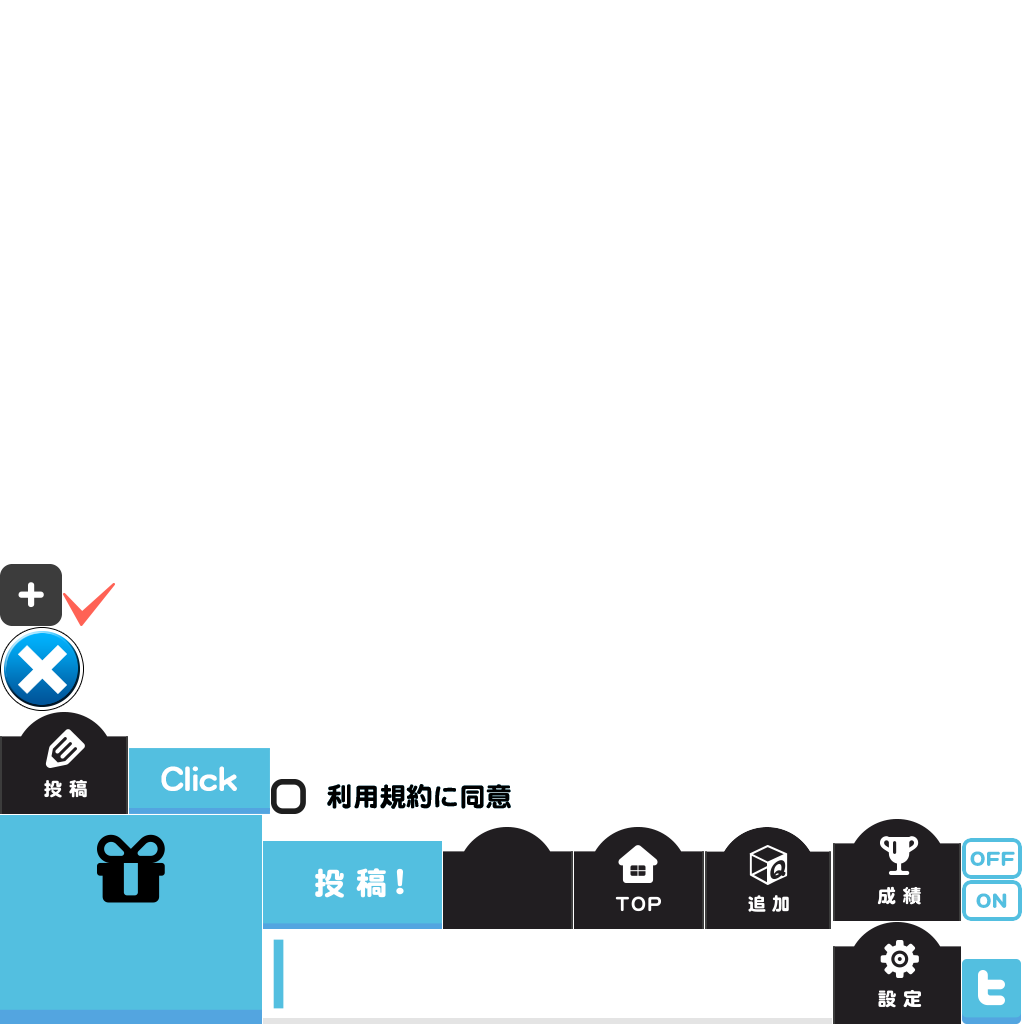
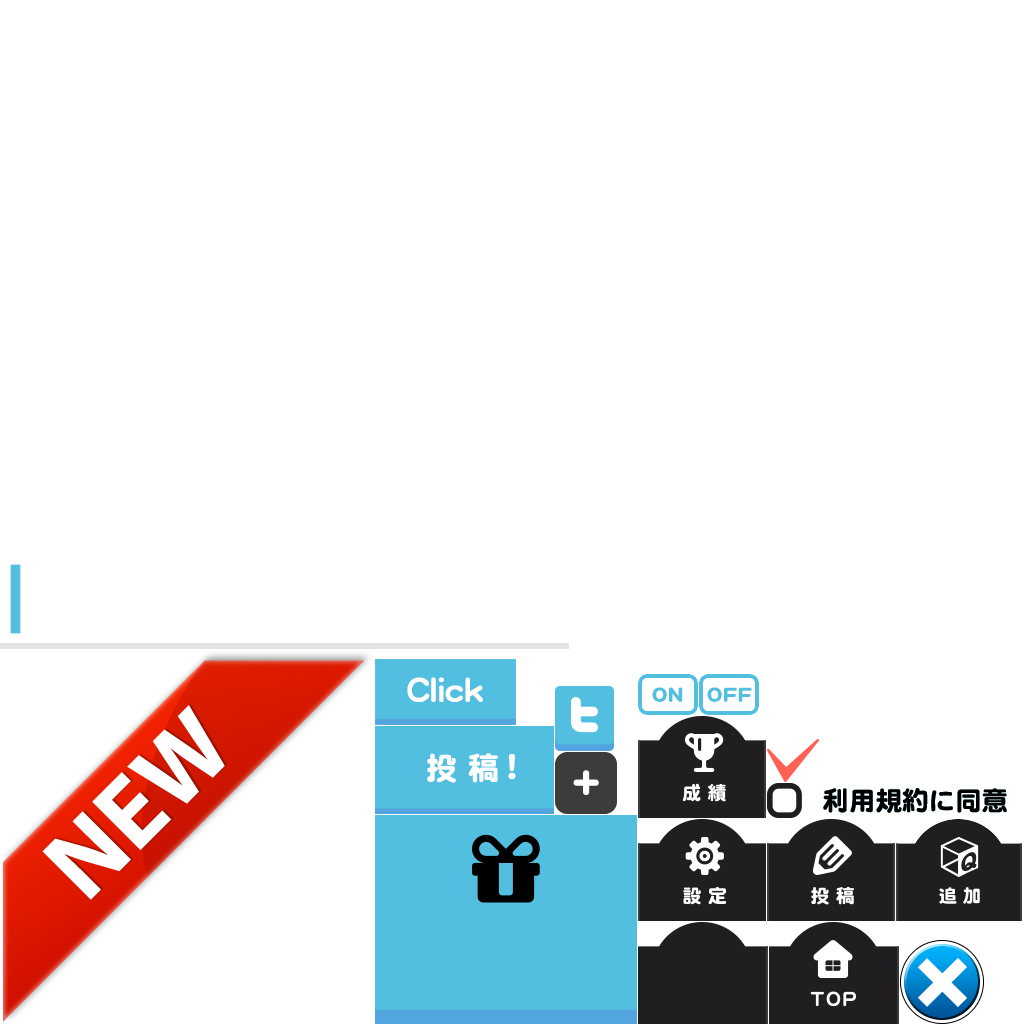
C#ライブラリを修正開始

Changed region(s): [[0.0, 0.5312, 1.0, 1.0]]

diff --git a/Assets/QuizBox/Scripts/Top/TopController.cs b/Assets/QuizBox/Scripts/Top/TopController.cs
@@ -17,11 +17,13 @@ public class TopController : MonoBehaviour {
 	public GameObject[] dialogArray;
 	public UISprite[] buttonFilterArray;
 	private static TopController sInstance;
-	private GameObject mCurrentDialog;
+	private GameObject mCurrentDialogObject;
+	private Dialog mCurrentDialog;
 
 	void Start () {
 		sInstance = this;
 		ShowDialog (Dialog.QuizTopic);
+		mCurrentDialog = Dialog.QuizTopic;
 		SetActiveButtonFilter (Dialog.QuizTopic);
 		UpdateUserPointLabel ();
 		ImobileManager.Instance.ShowBannerAd ();
@@ -40,9 +42,13 @@ public class TopController : MonoBehaviour {
 	}
 
 	public void OnTopClicked () {
-		mCurrentDialog.SetActive (false);
+		if(mCurrentDialog == Dialog.QuizTopic){
+			return;
+		}
+		mCurrentDialogObject.SetActive (false);
 		SetActiveButtonFilter (Dialog.QuizTopic);
 		ShowDialog (Dialog.QuizTopic);
+		mCurrentDialog = Dialog.QuizTopic;
 	}
 
 	public void OnAddPointClicked () {
@@ -54,21 +60,33 @@ public class TopController : MonoBehaviour {
 	}
 
 	public void OnResultClicked () {
-		mCurrentDialog.SetActive (false);
+		if(mCurrentDialog == Dialog.History){
+			return;
+		}
+		mCurrentDialogObject.SetActive (false);
 		SetActiveButtonFilter (Dialog.History);
 		ShowDialog (Dialog.History);
+		mCurrentDialog = Dialog.History;
 	}
 
 	public void OnSettingClicked () {
-		mCurrentDialog.SetActive (false);
+		if(mCurrentDialog == Dialog.Setting){
+			return;
+		}
+		mCurrentDialogObject.SetActive (false);
 		SetActiveButtonFilter (Dialog.Setting);
 		ShowDialog (Dialog.Setting);
+		mCurrentDialog = Dialog.Setting;
 	}
 
 	public void OnAddQuizClicked () {
-		mCurrentDialog.SetActive (false);
+		if(mCurrentDialog == Dialog.AddQuiz){
+			return;
+		}
+		mCurrentDialogObject.SetActive (false);
 		SetActiveButtonFilter (Dialog.AddQuiz);
 		ShowDialog (Dialog.AddQuiz);
+		mCurrentDialog = Dialog.AddQuiz;
 	}
 
 	public void UpdateUserPointLabel () {
@@ -80,7 +98,7 @@ public class TopController : MonoBehaviour {
 		Debug.Log ("show dialog " + ((int)dialog));
 		GameObject currentDialog = dialogArray[(int)dialog];
 		currentDialog.SetActive (true);
-		mCurrentDialog = currentDialog;
+		mCurrentDialogObject = currentDialog;
 	}
 
 	private void SetActiveButtonFilter (Dialog dialog) {

diff --git a/Assets/QuizBox/Scripts/Initialize/DatabaseUpdater.cs b/Assets/QuizBox/Scripts/Initialize/DatabaseUpdater.cs
@@ -45,22 +45,30 @@ public class DatabaseUpdater : MonoBehaviour {
 		int databaseVersion = PrefsManager.Instance.DatabaseVersion;
 		switch (databaseVersion) {
 		case 0:
+			List<Quiz> quizList = QuizListDao.instance.GetQuizList ();
+			if(quizList.Count ==0){
 				//金魂クイズをインサート
-			Quiz kinkonQuiz = new Quiz ();
-			kinkonQuiz.Title = "金魂クイズ";
-			kinkonQuiz.QuizUrl = "http://ryodb.us/projects/5035e95766e5411652000001/quizzes.json";
-			kinkonQuiz.QuizId = 73;
-			kinkonQuiz.BoughtDate = DateTime.Now.ToString ();
-			kinkonQuiz.OrderNumber = 1;
-			QuizListDao.instance.Insert (kinkonQuiz);
-			PrefsManager.Instance.DatabaseVersion = 3;
+				Quiz kinkonQuiz = new Quiz ();
+				kinkonQuiz.Title = "金魂クイズ";
+				kinkonQuiz.QuizUrl = "http://ryodb.us/projects/5035e95766e5411652000001/quizzes.json";
+				kinkonQuiz.QuizId = 73;
+				kinkonQuiz.BoughtDate = DateTime.Now.ToString ("yyyy/MM/dd");
+				kinkonQuiz.OrderNumber = 1;
+				QuizListDao.instance.Insert (kinkonQuiz);
+				PrefsManager.Instance.DatabaseVersion = 3;
+			}else {
+				//ver0のままアップデートした人なので既存のレコードにquiz id を入れてあげる
+				RemakeDatabase ();
+				InitQuizId ();
+				InitOrderNumber ();
+				PrefsManager.Instance.DatabaseVersion = 3;
+			}
 			break;
 		case 1:
 			//ヒストリーデータを再構築(tweet_flagを削除)ver1.9
 			RemakeDatabase ();
 			InitOrderNumber ();
 			PrefsManager.Instance.DatabaseVersion = 3;
-			UpdateDatabase ();
 			break;
 		case 2:
 			//オーダーナンバーを追加 ver2.0
@@ -107,5 +115,9 @@ public class DatabaseUpdater : MonoBehaviour {
 		#if UNITY_ANDROID
 		EtceteraAndroid.showAlert (title,message,"OK");
 		#endif
+	}
+
+	private void InitQuizId(){
+
 	}
 }

diff --git a/Assets/QuizBox/Scripts/AddQuiz/AddQuizInitializer.cs b/Assets/QuizBox/Scripts/AddQuiz/AddQuizInitializer.cs
@@ -56,15 +56,34 @@ public class AddQuizInitializer : MonoBehaviour {
 	}
 
 	private void CreateScrollView (IList jsonArray) {
-		foreach (object item in jsonArray) {
+		int maxId = GetMaxId (jsonArray);
+		Debug.Log ("max id " + maxId);
+		for(int i = 0;i<jsonArray.Count;i++){
+			object item = jsonArray[i];
 			IDictionary jsonObject = (IDictionary)item;
-			SetButtons (jsonObject);
+			SetButtons (jsonObject,maxId);
 		}
 		scrollView.ResetPosition ();
 		DismissProgressDialog ();
 	}
 
-	private void SetButtons (IDictionary jsonObject) {
+	private int GetMaxId(IList jsonArray){
+		int maxId = 0;
+		foreach(object item in jsonArray){
+			IDictionary jsonObject = (IDictionary)item;
+			bool publish = (bool)jsonObject ["publish"];
+			if (!publish) {
+				continue;
+			}
+			long quizId = (long)jsonObject ["id"];
+			if(quizId > maxId){
+				maxId = (int)quizId;
+			}
+		}
+		return maxId;
+	}
+
+	private void SetButtons (IDictionary jsonObject, int maxId) {
 		bool publish = (bool)jsonObject ["publish"];
 		string title = jsonObject ["title"].ToString ();
 		if (!publish) {
@@ -84,6 +103,10 @@ public class AddQuizInitializer : MonoBehaviour {
 		addQuiz.title = title;
 		addQuiz.quizCount = (int)quizCount;
 		addQuiz.QuizId = (int)quizId;
+		if(quizId > maxId -5){
+			addQuiz.FlagNew = true;
+		}
+
 		GameObject addQuizButtonObject = Instantiate (addQuizButtonPrefab)as GameObject;
 		grid.AddChild (addQuizButtonObject.transform);
 		addQuizButtonObject.transform.localScale = new Vector3 (1, 1, 1);

diff --git a/Assets/QuizBox/Scripts/AddQuiz/AddQuizButtonController.cs b/Assets/QuizBox/Scripts/AddQuiz/AddQuizButtonController.cs
@@ -6,6 +6,7 @@ public class AddQuizButtonController : MonoBehaviour {
 
 	public static event Action<AddQuizButtonController> clickedEvent;
 
+	public GameObject newSprite;
 	public UILabel titleLabel;
 	public UILabel pointLabel;
 	private AddQuiz mAddQuiz;
@@ -14,6 +15,10 @@ public class AddQuizButtonController : MonoBehaviour {
 		mAddQuiz = addQuiz;
 		titleLabel.text = mAddQuiz.title + "\n(" + mAddQuiz.quizCount + "\u554f)";
 		pointLabel.text = mAddQuiz.point + "pt";
+		if(mAddQuiz.FlagNew){
+			//show new label
+			newSprite.SetActive (true);
+		}
 	}
 
 	public AddQuiz SelectedQuiz{

diff --git a/Assets/QuizBox/Scripts/AddQuiz/AddQuizController.cs b/Assets/QuizBox/Scripts/AddQuiz/AddQuizController.cs
@@ -70,7 +70,7 @@ public class AddQuizController : MonoBehaviour {
 			quiz.Title = mSelectedQuiz.title;
 			quiz.QuizUrl = mSelectedQuiz.url;
 			quiz.QuizId = mSelectedQuiz.QuizId;
-			quiz.BoughtDate = DateTime.Now.ToString ();
+			quiz.BoughtDate = DateTime.Now.ToString ("yyyy/MM/dd");
 			QuizListDao.instance.Insert (quiz);
 			int userPoint = PrefsManager.Instance.GetUserPoint ();
 			userPoint -= mSelectedQuiz.point;

diff --git a/Assets/QuizBox/Scripts/AddQuiz/AddQuiz.cs b/Assets/QuizBox/Scripts/AddQuiz/AddQuiz.cs
@@ -5,6 +5,7 @@ public class AddQuiz {
 	private int mPoint;
 	private int mQuizCount;
 	private int mQuizId;
+	private bool mFlagNew;
 	private string mUrl;
 	private string mTitle;
 
@@ -50,6 +51,15 @@ public class AddQuiz {
 		}
 		get{
 			return mQuizId;
+		}
+	}
+
+	public bool FlagNew{
+		set{
+			mFlagNew = value;
+		}
+		get{
+			return mFlagNew;
 		}
 	}
 }

diff --git a/Assets/QuizBox/Scripts/Result/ResultInitializer.cs b/Assets/QuizBox/Scripts/Result/ResultInitializer.cs
@@ -48,7 +48,7 @@ public class ResultInitializer : MonoBehaviour {
 //		if (timeSpan.TotalDays >= unlockDaySpan) {
 //			StartCoroutine (OpenWallAd ());
 //		} 
-		Invoke ("OpenWallAd",4.0f);
+		Invoke ("OpenWallAd",3.0f);
 	}
 
 	void OnLabelEventCompleted () {
